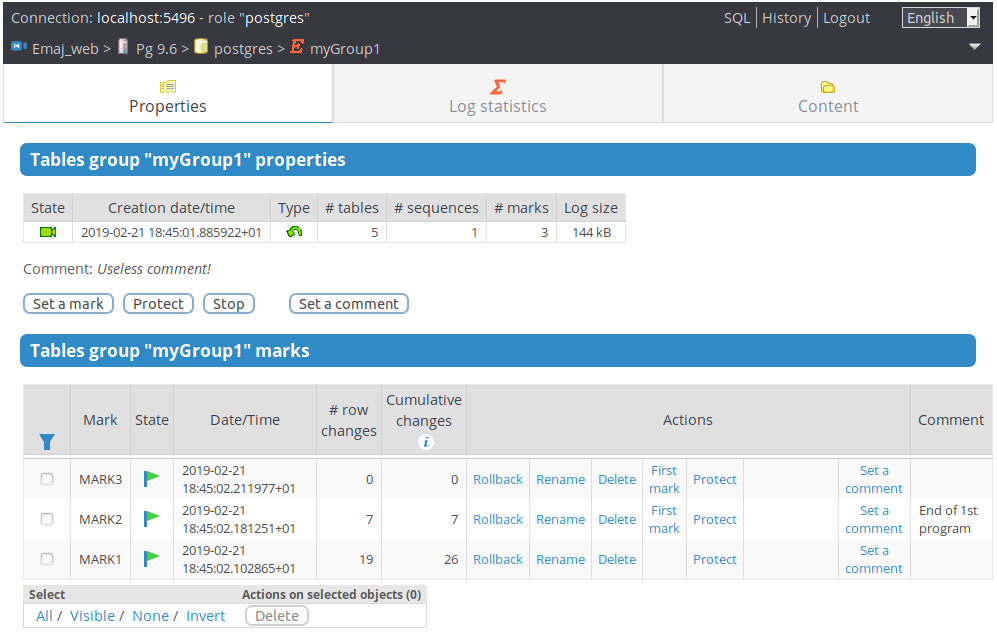
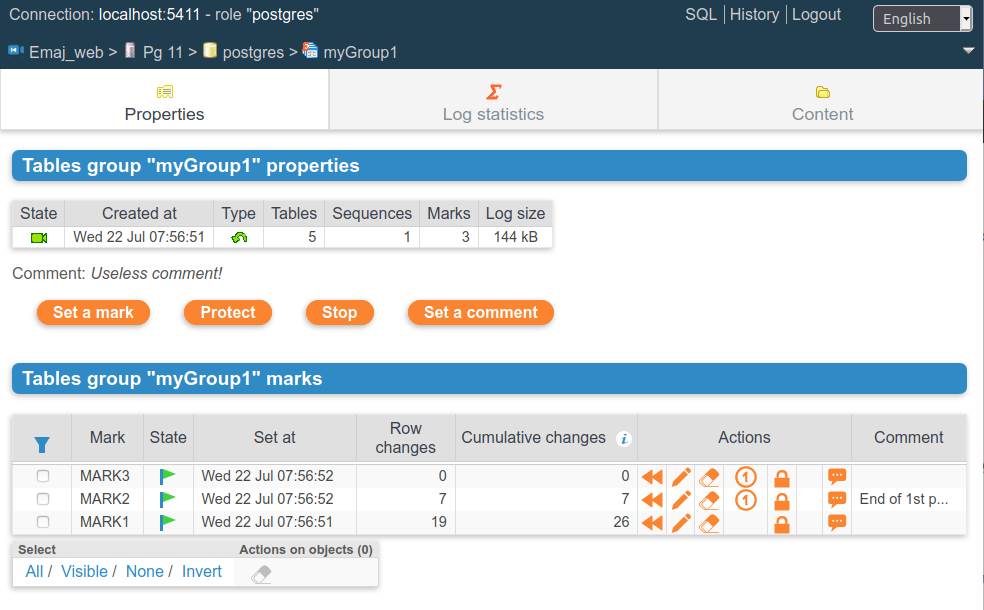
Update the documentation to reflect all changes in the emaj_web client UI.

diff --git a/docs/fr/webUsage.rst b/docs/fr/webUsage.rst
@@ -17,6 +17,7 @@ Située à gauche, l'arborescence de navigation offre la visibilité de toutes l
 
 	Figure 1 – Arborescence de navigation.
 
+Les deux icônes en bas et à droite permettent d’ajuster la largeur du l’arborescence de navigation.
 
 Liste des groupes de tables
 ---------------------------
@@ -55,7 +56,7 @@ Les entêtes de page contiennent :
 * 3 liens pour accéder à l’éditeur de requête SQL, à l’historique des requêtes exécutées et pour se déconnecter de l’instance courante,
 * une liste déroulante pour choisir la langue utilisée dans l’interface utilisateur,
 * un fil d’ariane permettant de se repérer dans l’arborescence,
-* et un bouton permettant d’aller directement en bas de page.
+* et un bouton pour aller directement en bas de page.
 
 Deux barres d'icônes permettent de naviguer dans les différentes fonctions d'Emaj_web : l'une regroupe les fonctions globales de l'interface, et l'autre les fonctions associées à un groupe de tables particulier.
 
@@ -81,6 +82,10 @@ Sur certains tableaux également, une icône à gauche de la ligne de titre fait
    Figure 5 – Filtrage des groupes de tables démarrés. Ne sont affichés ici que les groupes de tables dont le nom comprend « *my* » et contenant plus de 2 marques, cette liste étant triée par ordre décroissant du nombre de tables.
 
 Certains tableaux permettent d’exécuter des actions pour plusieurs objets simultanément. Dans ce cas, l’utilisateur sélectionne les objets à l’aide des cases à cocher dans la première colonne du tableau et choisit l’action à exécuter parmi les boutons accessibles sous le tableau.
+
+Les colonnes contenant des commentaires ont une taille limitée. Mais le contenu complet des commentaires est visible en infobulle lorsque la souris passe au dessus de la cellule.
+
+Les cellules contenant des horodatages d’événement ou des durées affichent en infobulle la valeur complète de la donnée.
 
 
 Détail d'un groupe de tables
@@ -120,8 +125,6 @@ Deux types de statistiques peuvent être obtenues :
 * des estimations du nombre de mises à jour par table, enregistrées entre 2 marques ou entre une marque et la situation présente,
 * un dénombrement précis du nombre de mises à jour par table, type de requête (*INSERT/UPDATE/DELETE/TRUNCATE*) et rôle.
 
-Si la borne de fin correspond à la situation courante, une case à cocher permet de demander en même temps une simulation de rollback à la première marque sélectionnée afin d'obtenir rapidement une durée approximative d'exécution de cet éventuel rollback.
-
 La figure suivante montre un exemple de statistiques détaillées.
 
 .. figure:: images/emajweb_groupstat.png
@@ -133,13 +136,6 @@ La page restituée contient une première ligne contenant des compteurs globaux.
 
 Sur chacune des lignes du tableau de statistiques, un bouton « *SQL* » permet à l'utilisateur de visualiser facilement le contenu des mises à jour enregistrées dans les tables de log. Un clic sur ce bouton ouvre l'éditeur de requêtes SQL et propose la requête visualisant le contenu de la table de log correspondant à la sélection (table, tranche de temps, rôle, type de requête). L'utilisateur peut la modifier à sa convenance avant de l'exécuter, afin, par exemple, de cibler davantage les lignes qui l'intéressent.
 
-.. figure:: images/emajweb_rollbacksim.png
-   :align: center
-
-   Figure 8 – Résultat de la simulation d'un rollback avec estimation du nombre de mises à jour par table.
-
-La page restituée contient une première partie indiquant le nombre de tables et de mises à jour concernées par un éventuel rollback à cette marque et une estimation du temps nécessaire à ce rollback.
-
 Contenu d'un groupe de tables
 -----------------------------
 
@@ -150,7 +146,7 @@ Le tableau affiché reprend, pour chaque table et séquence du groupe, les carac
 .. figure:: images/emajweb_groupcontent.png
    :align: center
 
-   Figure 9 – Contenu d'un groupe de tables.
+   Figure 8 – Contenu d'un groupe de tables.
 
 
 Schémas et configuration des groupes de tables
@@ -165,7 +161,7 @@ Pour chaque liste, on trouve les propriétés E-Maj et quelques caractéristique
 .. figure:: images/emajweb_schemas.png
    :align: center
 
-   Figure 10 – Contenu des schémas et configuration des groupes de tables.
+   Figure 9 – Contenu des schémas et configuration des groupes de tables.
 
 Triggers
 --------
@@ -177,7 +173,7 @@ Un bouton permet de changer le mode de désactivation lors des rollbacks E-Maj.
 .. figure:: images/emajweb_triggers.png
    :align: center
 
-   Figure 11 – Liste des triggers applicatifs
+   Figure 10 – Liste des triggers applicatifs
 
 
 Suivi des opérations de rollback
@@ -186,17 +182,15 @@ Suivi des opérations de rollback
 Une page, accessible par l'icône « *Rollbacks* » de la barre globale, permet de suivre les opérations de rollback. Trois listes distinctes sont affichées :
 
 * les opérations de rollback en cours, avec le rappel des caractéristiques de l'opération et une estimation de la part de l'opération déjà effectuée et de la durée restante,
-* les dernières opérations de rollback terminées,
+* les opérations de rollback terminées,
 * les opérations de rollback tracés susceptibles d’être consolidées.
-
-L'utilisateur peut filtrer la liste des rollbacks terminés sur une profondeur d'historique plus ou moins grande.
 
 Pour chaque rollback tracé consolidable listé, un bouton permet d’exécuter la consolidation.
 
 .. figure:: images/emajweb_rollbacks.png
    :align: center
 
-   Figure 12 – Suivi des opérations de rollback.
+   Figure 11 – Suivi des opérations de rollback.
 
 En cliquant sur un identifiant de rollback dans l’un de ces tableaux, on accède à une page présentant des informations détaillées sur le déroulement en cours ou passé de l’opération sélectionnée.
 
@@ -212,7 +206,7 @@ On y trouve plus précisément des données concernant :
 .. figure:: images/emajweb_rollbackdetails.png
    :align: center
 
-   Figure 13 – Détails d’une opération de rollback.
+   Figure 12 – Détails d’une opération de rollback.
 
 État de l'environnement E-Maj
 -----------------------------
@@ -235,4 +229,4 @@ Deux boutons en bas de page permettent d’exporter ou d’importer une configur
 .. figure:: images/emajweb_emaj.png
    :align: center
 
-   Figure 14 – État de l'environnement E-Maj 
+   Figure 13 – État de l'environnement E-Maj 

diff --git a/docs/en/webUsage.rst b/docs/en/webUsage.rst
@@ -17,6 +17,7 @@ On the left, the browser tree shows all the configured instances, that may be sp
 
 	Figure 1 – The browser tree.
 
+Both icons located at the bottom-right allow to adjust the browser width.
 
 Tables groups list
 ------------------
@@ -54,7 +55,7 @@ The page headers contain:
 * 3 links to reach the SQL statements editor, the history of submitted statements and to logout the current connection,
 * a combo box to select the language used by the user interface,
 * a breadcrumb trail,
-* and a button allowing to directly go to the page bottom.
+* and a button to directly go to the page bottom.
 
 The user can navigate in Emaj_web functions using two icon bars: one for the general purpose functions and the other for the functions concerning a single tables group.
 
@@ -81,6 +82,9 @@ On some tables too, an icon located at the left of the header row, let show or h
 
 Some tables allow to perform actions on several objects at once. In this case, the user selects the objects with the checkboxes on the first column of the table and choose the action to perform among the available buttons under the table.
 
+Columns containing comments have a limited size. But the full comment content is visible in tooltip when the mouse goes over the cell.
+
+Cells containing event timestamps or durations show a full data content in tooltip.
 
 Tables group details
 --------------------
@@ -120,8 +124,6 @@ Two types of statistics can be produced:
 * some estimates about the number of updates per table, recorded between two marks or between one mark and the current situation,
 * a precise numbering of updates per tables, per statement type (*INSERT/UPDATE/DELETE/TRUNCATE*) and role.
 
-If the end of the range corresponds to the current situation, a check box allows one to request a rollback simulation to the selected mark in order to quickly get an approximate duration of this operation.
-
 The figure below shows an example of detailed statistics.
 
 .. figure:: images/emajweb_groupstat.png
@@ -133,13 +135,6 @@ The displayed page contains a first line returning global counters.
 
 On each line of the statistics table, the user can click on a “*SQL*” button to easily look at the log tables content. A click on this button opens the SQL editor window and proposes the statement displaying the content of the log table that corresponds to the selection (table, time frame, role, statement type). The user can modify this suggested statement before executing it to better fit his needs.
 
-.. figure:: images/emajweb_rollbacksim.png
-   :align: center
-
-   Figure 8 – Result of the rollback simulation, with the estimated number of updates for each table. 
-
-The displayed page contains a first part indicating the number of tables and sequences concerned by the rollback operation to this mark, and an estimate of the operation duration.
-
 Tables group content
 --------------------
 
@@ -150,7 +145,7 @@ For each table and sequence belonging to the group, the displayed table shows th
 .. figure:: images/emajweb_groupcontent.png
    :align: center
 
-   Figure 9 – A tables group's content.
+   Figure 8 – A tables group's content.
 
 
 Schemas and tables groups configuration
@@ -165,7 +160,7 @@ For both lists, the E-Maj properties and some general properties of each object 
 .. figure:: images/emajweb_schemas.png
    :align: center
 
-   Figure 10 – Schema content and tables groups configuration.
+   Figure 9 – Schema content and tables groups configuration.
 
 
 Triggers
@@ -178,7 +173,7 @@ A button allows to switch their de-activation mode at E-Maj rollback time.
 .. figure:: images/emajweb_triggers.png
    :align: center
 
-   Figure 11 – Application triggers list.
+   Figure 10 – Application triggers list.
 
 Monitoring rollback operations
 ------------------------------
@@ -186,17 +181,15 @@ Monitoring rollback operations
 Using the “*Rollback operations*” tab of the main bar, users can monitor the rollback operations. Three different lists are displayed:
 
 * in progress rollback operations, with the characteristics of the rollback operations and estimates of the percentage of the operation already done and of the remaining duration,
-* the latest completed operations,
+* the completed operations,
 * logged rollback operations that are consolidable.
-
-For completed operations, the user can filter on a more or less deep history.
 
 For each consolidable rollback, a button allows to effectively consolidate the operation.
 
 .. figure:: images/emajweb_rollbacks.png
    :align: center
 
-   Figure 12 – Rollback operations monitoring.
+   Figure 11 – Rollback operations monitoring.
 
 Clicking on a rollback identifier in one of these tables displays a page that shows information details about the selected in progress or completed operation.
 
@@ -212,7 +205,7 @@ More precisely, are displayed:
 .. figure:: images/emajweb_rollbackdetails.png
    :align: center
 
-   Figure 13 – Details of a Rollback operation.
+   Figure 12 – Details of a Rollback operation.
 
 E-Maj environment state
 -----------------------
@@ -235,4 +228,4 @@ Two buttons allow to export and import parameters configurations to or from a lo
 .. figure:: images/emajweb_emaj.png
    :align: center
 
-   Figure 14 – The E-Maj environment state.
+   Figure 13 – The E-Maj environment state.
